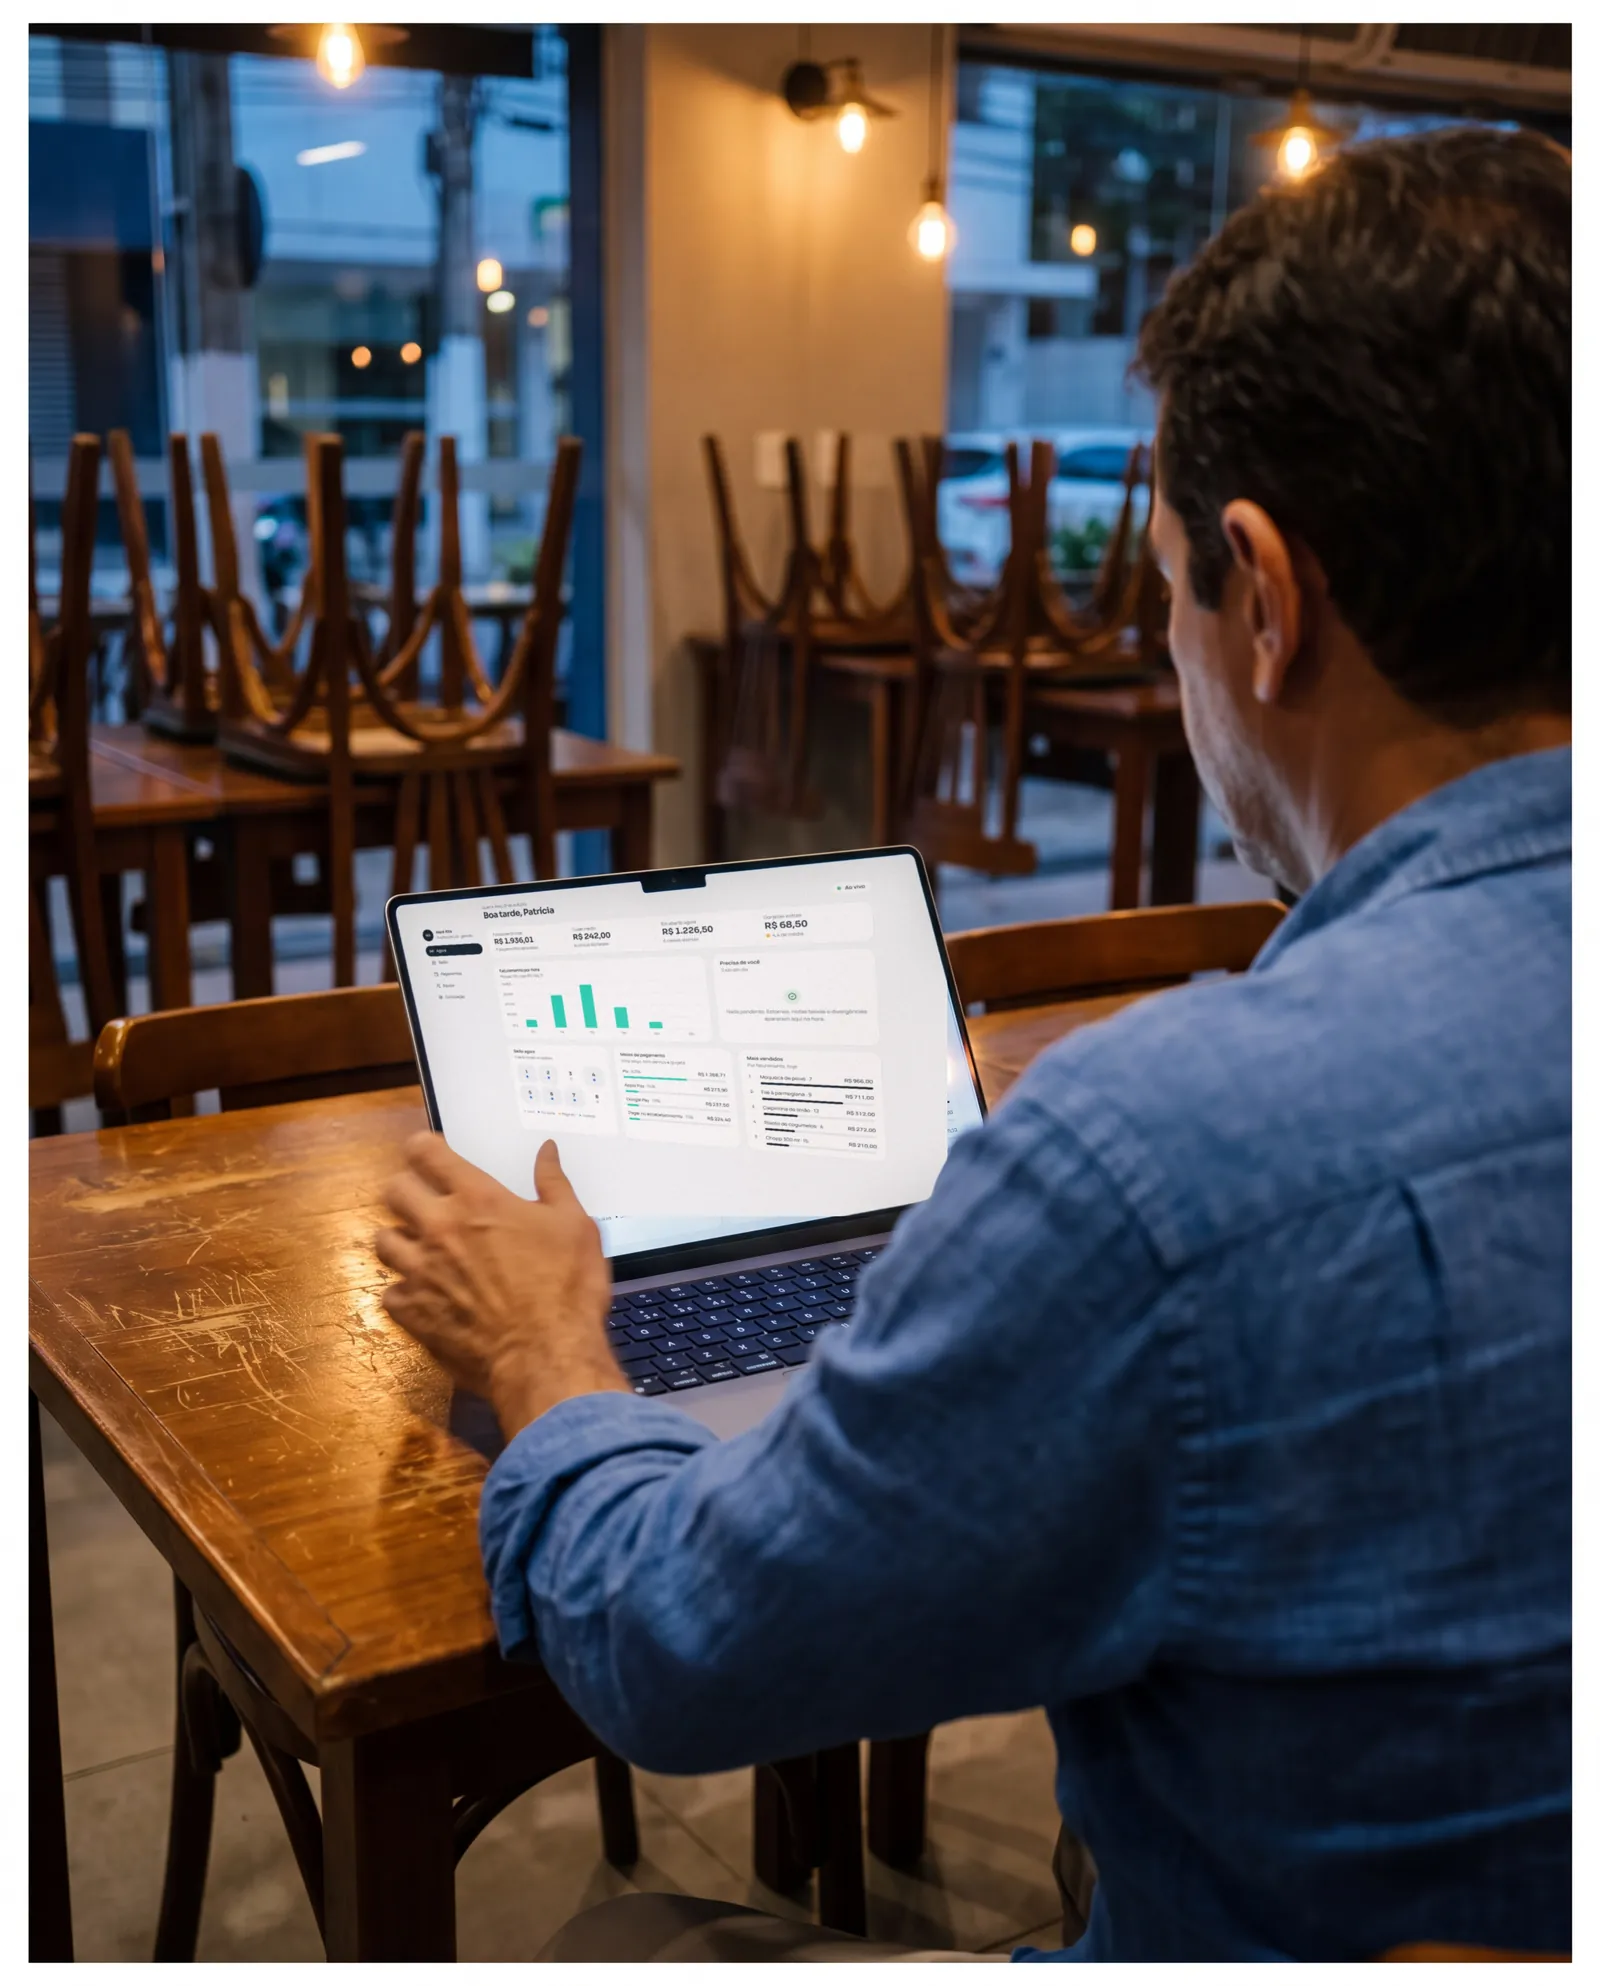
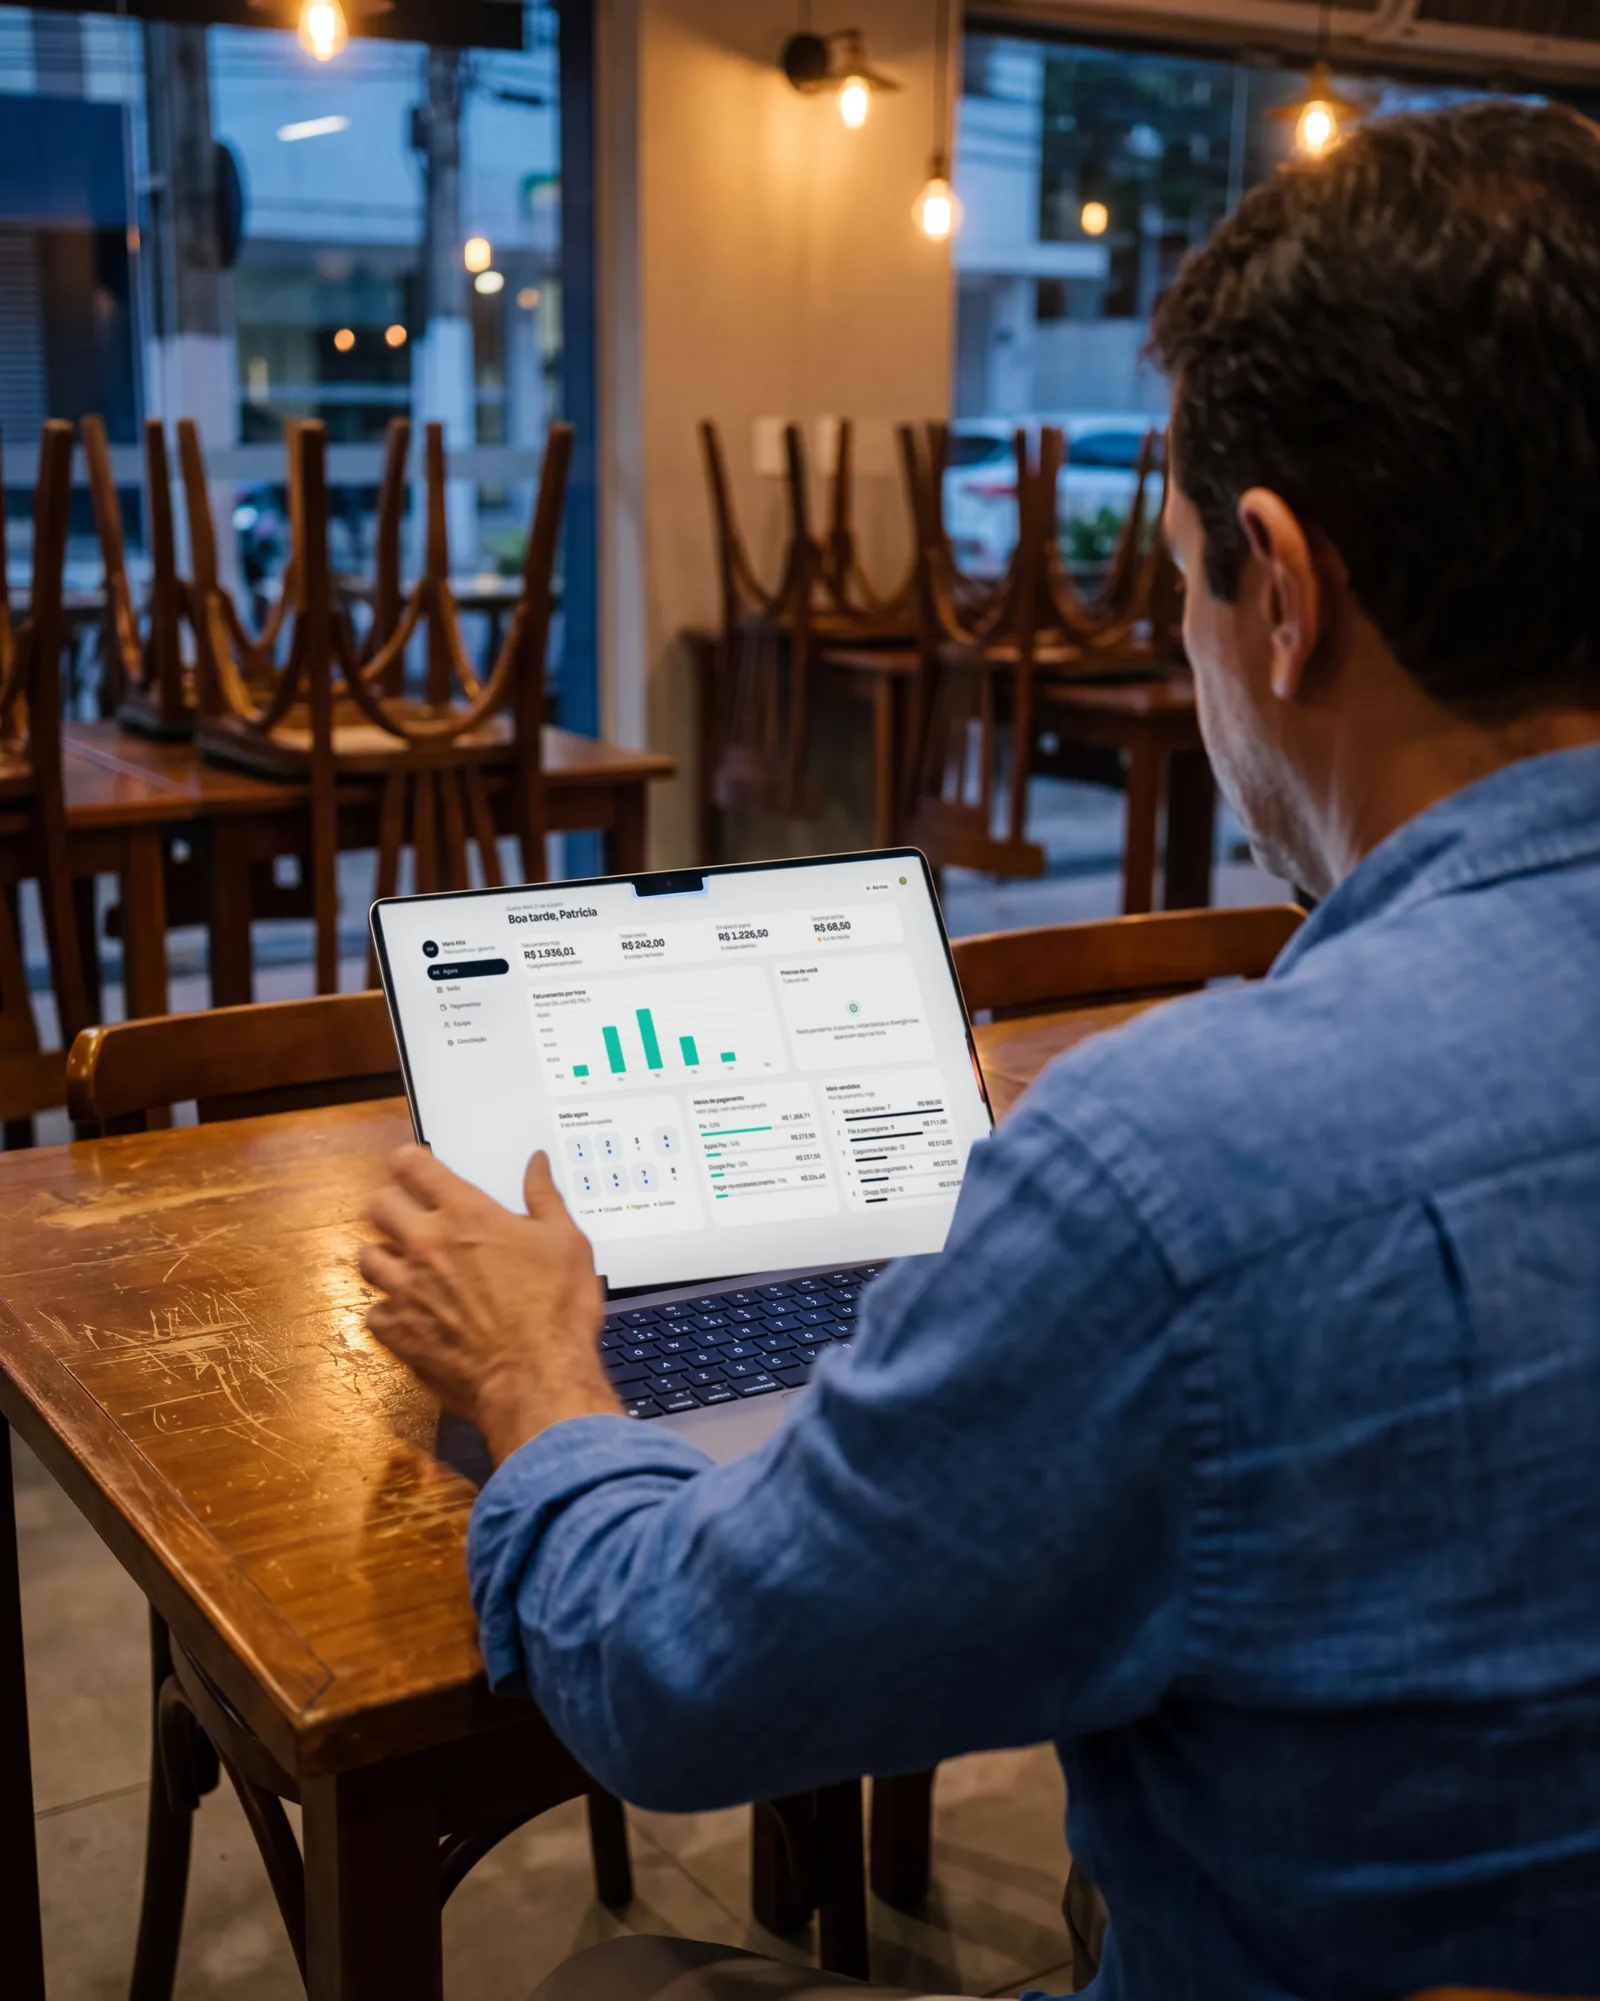
Demonstração: notebook do dono com o painel real, seção clara, Lebre mais animada e botão novo
Claude-Session: https://claude.ai/code/session_017Yecne7K7E3WzYnACHZYm1

diff --git a/src/components/tipe/site/ResultadosMesa.tsx b/src/components/tipe/site/ResultadosMesa.tsx
@@ -27,24 +27,24 @@ function CenaMesa({ cena }: { cena: Cena }) {
 export function ResultadosMesa() {
   const [ativa, selecionar] = useState(0);
   const atual = cenas[ativa]!;
-  return <section aria-labelledby="resultados" className="bg-[#021e34] py-16 text-white sm:py-24">
+  return <section aria-labelledby="resultados" className="bg-background-muted py-16 text-foreground sm:py-24">
     <div className="container-page">
-      <div className="mb-9 flex flex-wrap items-end justify-between gap-5 border-b border-white/20 pb-8">
-        <div><p className="mb-4 font-display text-[clamp(1.2rem,1rem+0.8vw,1.6rem)] text-brand">O que muda na sua mesa</p>
-          <h2 id="resultados" className="max-w-[16ch] scroll-mt-24 font-display text-[clamp(2.4rem,1.4rem+3.4vw,4.6rem)] font-medium leading-[1]">Do QR Code <span className="text-brand">à mesa livre.</span></h2></div>
-        <a href="/simulador" className="inline-flex min-h-11 items-center gap-3 rounded-full border border-white/35 px-5 text-sm font-medium hover:bg-white/10">Experimentar a Mesa 12 <ArrowUpRight size={16} /></a>
+      <div className="mb-9 flex flex-wrap items-end justify-between gap-5 border-b border-border pb-8">
+        <div><p className="mb-4 font-display text-[clamp(1.2rem,1rem+0.8vw,1.6rem)] text-brand-strong">O que muda na sua mesa</p>
+          <h2 id="resultados" className="max-w-[16ch] scroll-mt-24 font-display text-[clamp(2.4rem,1.4rem+3.4vw,4.6rem)] font-medium leading-[1]">Do QR Code <span className="text-brand-strong">à mesa livre.</span></h2></div>
+        <a href="/simulador" className="inline-flex min-h-11 items-center gap-3 rounded-full border border-foreground/25 px-5 text-sm font-medium hover:bg-foreground/5">Experimentar a Mesa 12 <ArrowUpRight size={16} /></a>
       </div>
       <div className="grid items-stretch gap-10 lg:grid-cols-[1.12fr_1fr]">
         <div className="hidden lg:block"><CenaMesa cena={atual} /></div>
         <div className="flex flex-col justify-center">{cenas.map((c,i) => {
           const aberta = i === ativa;
-          return <div key={c.titulo} className="border-b border-white/20">
-            <h3><button type="button" aria-expanded={aberta} aria-controls={`mesa-cena-${i}`} onClick={()=>selecionar(i)} className="group flex w-full items-center gap-4 py-5 text-left focus-visible:outline-2 focus-visible:outline-offset-2 focus-visible:outline-brand">
-              <span aria-hidden className={aberta ? "h-5 w-1 shrink-0 rounded-full bg-brand" : "h-1 w-1 shrink-0 rounded-full bg-white/45"} />
-              <span className={`flex-1 font-display text-[clamp(1.35rem,2.4vw,2.15rem)] leading-tight tracking-tight ${aberta ? "text-white" : "text-white/70 group-hover:text-white"}`}>{c.titulo}</span>
-              {aberta ? <Check size={18} className="text-brand" /> : <ArrowDownRight size={18} aria-hidden />}
+          return <div key={c.titulo} className="border-b border-border">
+            <h3><button type="button" aria-expanded={aberta} aria-controls={`mesa-cena-${i}`} onClick={()=>selecionar(i)} className="group flex w-full items-center gap-4 py-5 text-left focus-visible:outline-2 focus-visible:outline-offset-2 focus-visible:outline-brand-strong">
+              <span aria-hidden className={aberta ? "h-5 w-1 shrink-0 rounded-full bg-brand" : "h-1 w-1 shrink-0 rounded-full bg-foreground/30"} />
+              <span className={`flex-1 font-display text-[clamp(1.35rem,2.4vw,2.15rem)] leading-tight tracking-tight ${aberta ? "text-foreground" : "text-muted-foreground group-hover:text-foreground"}`}>{c.titulo}</span>
+              {aberta ? <Check size={18} className="text-brand-strong" /> : <ArrowDownRight size={18} aria-hidden />}
             </button></h3>
-            <div id={`mesa-cena-${i}`} hidden={!aberta}>{aberta && <div className="pb-6"><p className="mb-4 max-w-[45ch] pl-5 text-base leading-relaxed text-white/80">{c.texto}</p><div className="lg:hidden"><CenaMesa cena={c} /></div></div>}</div>
+            <div id={`mesa-cena-${i}`} hidden={!aberta}>{aberta && <div className="pb-6"><p className="mb-4 max-w-[45ch] pl-5 text-base leading-relaxed text-muted-foreground">{c.texto}</p><div className="lg:hidden"><CenaMesa cena={c} /></div></div>}</div>
           </div>;
         })}</div>
       </div>

diff --git a/src/components/tipe/site/LebreConversa.tsx b/src/components/tipe/site/LebreConversa.tsx
@@ -74,20 +74,45 @@ export function LebreConversa({ falas = PADRAO, className }: { falas?: Fala[]; c
       className={cn("flex items-end gap-4", className)}
     >
       <div className="relative h-64 w-40 shrink-0 sm:h-72 sm:w-44">
-        {(Object.keys(POSES) as (keyof typeof POSES)[]).map((k) => (
-          <img
-            key={k}
-            src={POSES[k]}
-            alt=""
-            aria-hidden
-            width={640}
-            height={640}
-            className={cn(
-              "lebre-balanco absolute inset-0 h-full w-full object-contain object-bottom transition-opacity duration-500",
-              POSES[k] === pose ? "opacity-100" : "opacity-0",
-            )}
-          />
-        ))}
+        <span
+          key={`s${n}`}
+          aria-hidden
+          className="lebre-sombra absolute bottom-1 left-1/2 h-3 w-24 -translate-x-1/2 rounded-[50%] bg-foreground/30 blur-[3px]"
+        />
+        {pose === estrela && (
+          <>
+            {[
+              ["left-[12%] top-[28%]", "0ms"],
+              ["right-[6%] top-[20%]", "500ms"],
+              ["right-[16%] top-[48%]", "950ms"],
+            ].map(([pos, d]) => (
+              <span
+                key={pos}
+                aria-hidden
+                className={cn("brilho absolute text-lg text-brand-strong", pos)}
+                style={{ animationDelay: d }}
+              >
+                ✦
+              </span>
+            ))}
+          </>
+        )}
+        <div key={`p${n}`} className="lebre-pulo absolute inset-0">
+          {(Object.keys(POSES) as (keyof typeof POSES)[]).map((k) => (
+            <img
+              key={k}
+              src={POSES[k]}
+              alt=""
+              aria-hidden
+              width={640}
+              height={640}
+              className={cn(
+                "lebre-balanco absolute inset-0 h-full w-full object-contain object-bottom transition-opacity duration-500",
+                POSES[k] === pose ? "opacity-100" : "opacity-0",
+              )}
+            />
+          ))}
+        </div>
       </div>
       <ul aria-hidden className="flex min-h-[10.5rem] min-w-0 flex-1 flex-col justify-end gap-2 pb-4">
         {recentes.map((f, i) => (

diff --git a/src/styles.css b/src/styles.css
@@ -2371,3 +2371,43 @@
 @media (prefers-reduced-motion: reduce) {
   .lebre-balanco, .lebre-tropeco, .ponto-digitando, .zoom-lento { animation: none !important; }
 }
+/* Lebre: pulo com achatamento (cada fala nova) e brilhos de comemoração. */
+@keyframes tipe-lebre-pulo {
+  0% { transform: translateY(0) scale(1, 1); }
+  18% { transform: translateY(0) scale(1.1, 0.88); }
+  48% { transform: translateY(-26px) scale(0.93, 1.1) rotate(-3deg); }
+  72% { transform: translateY(0) scale(1.07, 0.93) rotate(2deg); }
+  100% { transform: translateY(0) scale(1, 1); }
+}
+.lebre-pulo { transform-origin: 50% 100%; animation: tipe-lebre-pulo 0.8s cubic-bezier(0.3, 0.7, 0.4, 1) both; }
+@keyframes tipe-sombra-pulo {
+  0%, 100% { transform: scaleX(1); opacity: 0.28; }
+  48% { transform: scaleX(0.6); opacity: 0.14; }
+}
+.lebre-sombra { animation: tipe-sombra-pulo 0.8s ease-out both; }
+@keyframes tipe-brilho {
+  0% { opacity: 0; transform: translateY(6px) scale(0.4) rotate(0deg); }
+  40% { opacity: 1; }
+  100% { opacity: 0; transform: translateY(-34px) scale(1.1) rotate(60deg); }
+}
+.brilho { animation: tipe-brilho 1.6s ease-out infinite; }
+@media (prefers-reduced-motion: reduce) { .lebre-pulo, .lebre-sombra, .brilho { animation: none !important; } }
+/* Botão da Lebre: pula de tempos em tempos, tem anel pulsante e o rótulo aparece alguns segundos. */
+@keyframes tipe-chamar {
+  0%, 82%, 100% { transform: translateY(0); }
+  88% { transform: translateY(-10px) rotate(-6deg); }
+  94% { transform: translateY(0) rotate(4deg); }
+}
+.lebre-chamar { animation: tipe-chamar 7s ease-in-out 3s infinite; }
+@keyframes tipe-anel {
+  0% { transform: scale(1); opacity: 0.45; }
+  100% { transform: scale(1.7); opacity: 0; }
+}
+.lebre-anel { animation: tipe-anel 2.6s ease-out infinite; }
+@keyframes tipe-rotulo {
+  0%, 8% { opacity: 0; transform: translateX(8px); }
+  14%, 80% { opacity: 1; transform: none; }
+  100% { opacity: 0; }
+}
+.lebre-rotulo { opacity: 0; animation: tipe-rotulo 9s ease-out 1.5s 1 both; }
+@media (prefers-reduced-motion: reduce) { .lebre-chamar, .lebre-anel, .lebre-rotulo { animation: none !important; } }

diff --git a/src/components/tipe/LebreBotao.tsx b/src/components/tipe/LebreBotao.tsx
@@ -1,15 +1,16 @@
-import { HareOutline } from "@/components/tipe/HareOutline";
+import rosto from "@/assets/lebre/rosto-ola.webp";
 
 /** Classes do botão flutuante da Lebre (compartilhadas entre o atalho leve e o chat completo). */
 export function classeBotaoLebre(slug?: string | undefined) {
-  return `group fixed right-3 z-40 grid place-items-center rounded-full bg-primary text-primary-foreground shadow-xl transition-transform hover:-translate-y-0.5 print:hidden ${slug ? "bottom-24 h-12 w-12 sm:right-5 lg:bottom-5 lg:h-14 lg:w-14" : "bottom-4 h-11 w-11 sm:bottom-6 sm:right-6 sm:h-12 sm:w-12"}`;
+  return `group fixed right-3 z-40 grid place-items-center rounded-full bg-brand text-ink shadow-xl ring-4 ring-white/70 transition-transform hover:-translate-y-1 hover:scale-105 active:scale-95 lebre-chamar print:hidden ${slug ? "bottom-24 h-12 w-12 sm:right-5 lg:bottom-5 lg:h-16 lg:w-16" : "bottom-4 h-14 w-14 sm:bottom-6 sm:right-6 sm:h-16 sm:w-16"}`;
 }
 
 export function ConteudoBotaoLebre() {
   return (
     <>
-      <HareOutline className="h-7 w-6" />
-      <span className="pointer-events-none absolute right-full mr-3 hidden whitespace-nowrap rounded-full bg-foreground px-3 py-1.5 text-xs font-semibold text-background opacity-0 shadow-md transition-opacity group-hover:opacity-100 group-focus-visible:opacity-100 sm:block">
+      <span aria-hidden className="lebre-anel pointer-events-none absolute inset-0 rounded-full bg-brand" />
+      <img src={rosto} alt="" width={64} height={64} className="relative h-[88%] w-[88%] rounded-full object-cover" />
+      <span className="lebre-rotulo pointer-events-none absolute right-full mr-3 hidden whitespace-nowrap rounded-full bg-foreground px-4 py-2 text-sm font-semibold text-background shadow-md transition-opacity group-hover:!opacity-100 group-focus-visible:!opacity-100 sm:block">
         Pergunte à Lebre
       </span>
     </>

diff --git a/src/routes/solicitar-demonstracao.tsx b/src/routes/solicitar-demonstracao.tsx
@@ -7,6 +7,7 @@
 import { createFileRoute, Link } from "@tanstack/react-router";
 import { useEffect, useRef, useState } from "react";
 import { ArrowLeft, ArrowRight, Check } from "lucide-react";
+import { LazyLebreAssistant } from "@/components/tipe/LazyLebreAssistant";
 import { WaitlistForm } from "@/components/tipe/WaitlistForm";
 import { LandingFooter, LandingHeader } from "@/components/tipe/landing/LandingChrome";
 import { Foto, type NomeFoto } from "@/components/tipe/site/Foto";
@@ -61,6 +62,7 @@ function TesteGratis() {
         <Fecho />
       </main>
       <LandingFooter />
+      <LazyLebreAssistant />
     </div>
   );
 }
